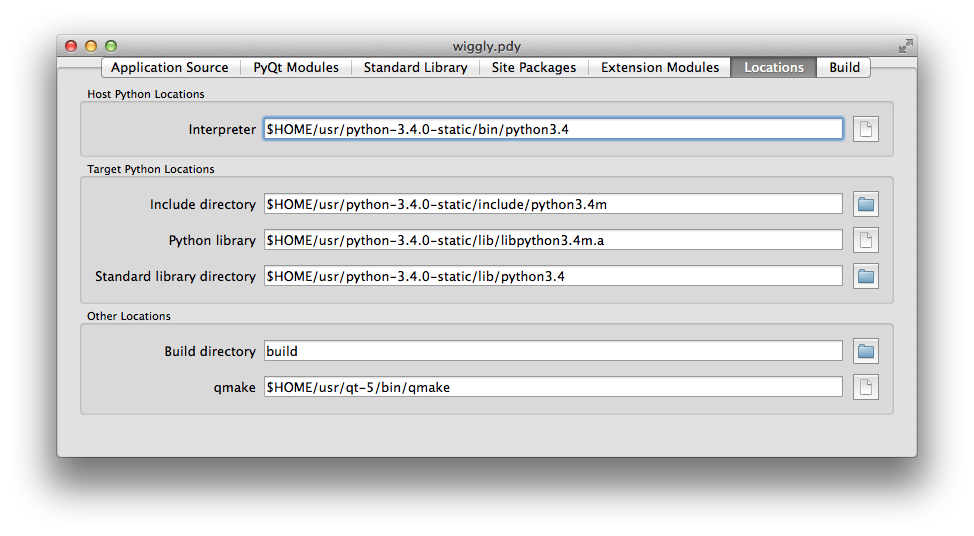
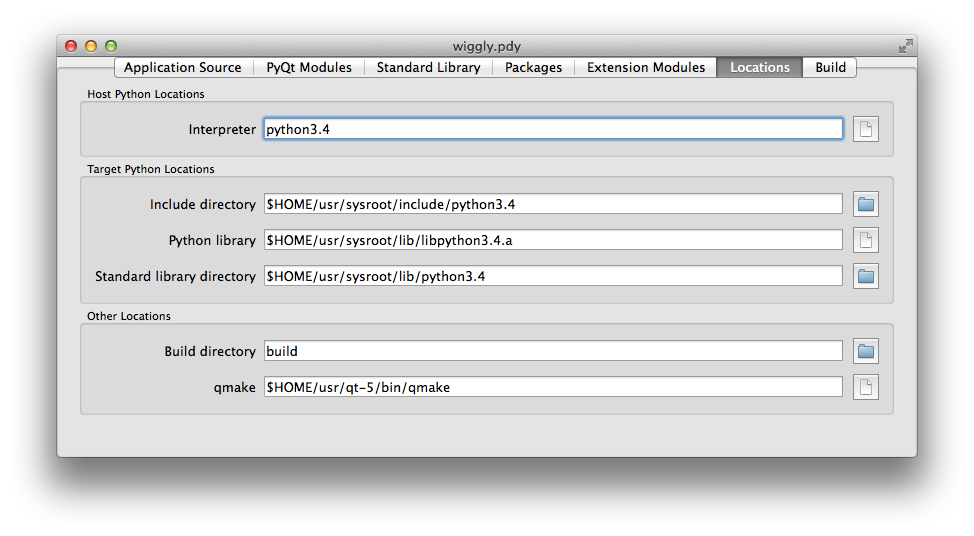
Updated the docs for the revised Packages tab.

diff --git a/doc/tutorial.rst b/doc/tutorial.rst
@@ -120,10 +120,10 @@ application is shown below.
 .. image:: /images/stdlib_packages_tab.png
     :align: center
 
-This tab is used to scan the directory containing the Python interpreter's
-standard library.  You then specify which individual modules are needed, either
-implicitly or explicitly, by the application.  :program:`pyqtdeploy` does not
-(yet) automatically handle inter-module dependencies.
+This tab is used to scan the directory containing the target Python
+interpreter's standard library.  You then specify which individual modules are
+needed, either implicitly or explicitly, by the application.
+:program:`pyqtdeploy` does not automatically handle inter-module dependencies.
 
 The ``wiggly.py`` script does not explicitly import any standard Python module
 (except for the :mod:`sys` module which is implemented as a builtin).  However,
@@ -132,21 +132,31 @@ internally are included so, for example, the above shows that the :mod:`types`
 and :mod:`warnings` modules will be included and cannot be changed.
 
 
-Defining the ``site-packages`` Packages
----------------------------------------
+Defining Additional Packages
+----------------------------
 
-The tab for defining the ``site-packages`` packages used by the application is
-shown below.
+The tab for defining additional packages used by the application is shown
+below.
 
-.. image:: /images/site_packages_tab.png
+.. image:: /images/packages_tab.png
     :align: center
 
-This tab is used to scan the the Python interpreter's ``site-packages``
-directory.  You then specify which individual modules are needed, either
-implicitly or explicitly, by the application.  :program:`pyqtdeploy` does not
-(yet) automatically handle inter-module dependencies.
+This tab is used to scan a number of directories containing additional Python
+packages.  You then specify which individual modules are needed, either
+implicitly or explicitly, by the application.
 
-The ``wiggly.py`` script does not use any third-party Python packages.
+By default the only directory defined is the target Python interpreter's
+``site-packages`` directory which, unless you have installed additional
+packages, will be empty.  To edit the list of directories just double-click on
+the entry to modify or delete.  To add a new entry just double-click the list
+after the last entry.
+
+In many cases you will want to add the ``site-packages`` directory of your host
+Python interpreter, i.e. the interpreter being used to develop the application,
+where all the additional packages required by your application are already
+installed.
+
+The ``wiggly.py`` script does not use any additional Python packages.
 
 
 Defining the Extension Modules
